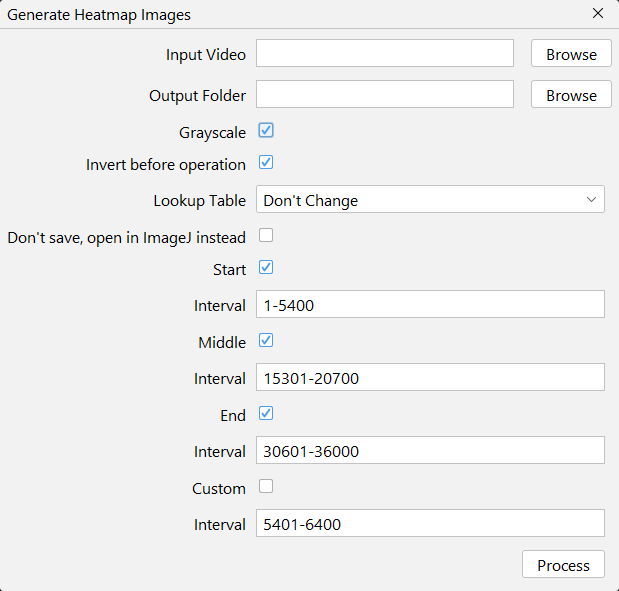
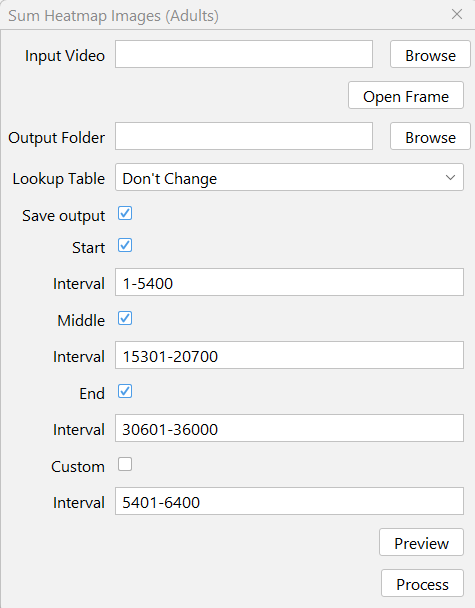
Plot spots fully documented

diff --git a/src/main/java/labmus/animove/ZFConfigs.java b/src/main/java/labmus/animove/ZFConfigs.java
@@ -39,7 +39,7 @@ public abstract class ZFConfigs {
     public static final String scoreSectorPath = analysisPath + "Calculate Score Sectors";
     public static final String analyzeFrequencyLarvaePath = analysisPath + "Extract Frequency Data";
     public static final String quantifyLarvaePath = analysisPath + "Quantify Binary Heatmap";
-    public static final String spotsPlotting = analysisPath + "Spots Plotting";
+    public static final String spotsPlotting = analysisPath + "Plot Spots";
     public static final String thigmotaxisPath = analysisPath + "Thigmotaxis";
 
 

diff --git a/docs/docs/analysis/spots-plotting.md b/docs/docs/analysis/spots-plotting.md
@@ -1,6 +1,6 @@
-# Spots Plotting
+# Plot Spots
 
-Plots each spot from a given Trackmate file to a scatter plot.
+Extract spots position data from a given Trackmate file. Outputs a scatter plot and a results table.
 
 [//]: # (TODO: finish this)
 {% include "excel-functions.md" %}
@@ -20,9 +20,9 @@ Two possible files can be used here:
 
 {% include "source-video-analysis.md" %}
 
-## Display Plots
+## Output
 * **Scatter Chart**: Simple chart to represent spot positions.
   ![Scatter Chart image](img/output-spots-plotting.png){ width="400em" }
 
 [//]: # (TODO: this)
-[How to reproduce this?](../guide/reproducibility.md#spots-plotting){ .md-button }
+[How to reproduce this?](../guide/reproducibility.md#plot-spots){ .md-button }

diff --git a/docs/docs/guide/reproducibility.md b/docs/docs/guide/reproducibility.md
@@ -83,6 +83,14 @@ Display Plots was left enabled.
 
 Generating the [plot shown](../analysis/frequency-data.md#display-plots).
 
+### Plot Spots
+
+`adults/tracking/full.xml` file was inputted into this analysis tool. 
+
+Both checkboxes for inverting axis were left unchecked.
+
+Generating the [plot shown](../analysis/spots-plotting.md#output).
+
 ### Quantify Binary Heatmap
 
 `larvae/larvae-long.mp4` file was inputted in the [Binary Heatmap Image](../processing/heatmap-binary.md) processing plugin.

diff --git a/docs/docs/processing/heatmap-images.md b/docs/docs/processing/heatmap-images.md
@@ -4,13 +4,13 @@ Generates an image using pixelwise addition of the selected frames. Processing s
 
 * **Background Reference Creation:** Performs an iteration over the frames to calculate the Average Z-projection of the raw footage.
 
-* **Background Subtraction:** Starts a second iteration over the frames. In this step, subtracts the generated average background from each frame.
+* **Background Subtraction:** Starts a second iteration over the frames. In this step, subtracts the generated average background from each frame. (This step is implemented by adding the inverted background reference to each frame)
 
-* **Brightness Adjust:** Increases the overall brightness.
+* **Brightness Adjustment:** Increases the overall brightness.
 
 * **Frame Sum:** Ending the second frame iteration, this operation sums all pixel values into a single 32-bit frame.
 
-* **Final Composition:** A simple B&C adjust is applied, stretching the histogram to its boundaries. After that, the selected Lookup table (LUT) is applied.
+* **Final Composition:** The sum is inverterd and a simple B&C adjust is applied, stretching the histogram to its boundaries. After that, the selected Lookup table (LUT) is applied.
 
 ## Interface
 ![Interface image](img/gui-heatmapImages.png){ width="400em" }
@@ -21,6 +21,8 @@ Generates an image using pixelwise addition of the selected frames. Processing s
 [How to reproduce this?](../guide/reproducibility.md#sum-heatmap-images){ .md-button }
 
 {% include "input-video.md" %}
+
+{% include "dark-subjects.md" %}
 
 ## Output Folder
 Where output images will be saved with `.tif` format.

diff --git a/docs/docs/processing/adults-tracking.md b/docs/docs/processing/adults-tracking.md
@@ -15,6 +15,8 @@ A TrackMate tutorial can be found [here](https://imagej.net/plugins/trackmate/tu
 
 {% include "input-video.md" %}
 
+{% include "dark-subjects.md" %}
+
 {% include "output-file.md" %}
 
 {% include "output-formats.md" %}

diff --git a/docs/docs/processing/heatmap-binary.md b/docs/docs/processing/heatmap-binary.md
@@ -21,6 +21,8 @@ Generates a binary heatmap image. Processing steps:
 
 {% include "input-video.md" %}
 
+{% include "dark-subjects.md" %}
+
 {% include "open-frame.md" %}
 
 {% include "output-image.md" %}

diff --git a/docs/docs/processing/heatmap-video.md b/docs/docs/processing/heatmap-video.md
@@ -15,6 +15,8 @@ Each frame is then concatenated into a single video.
 
 {% include "input-video.md" %}
 
+{% include "dark-subjects.md" %}
+
 {% include "output-file.md" %}
 
 ## Lookup Table

diff --git a/docs/docs/processing/larvae-tracking.md b/docs/docs/processing/larvae-tracking.md
@@ -15,6 +15,8 @@ A TrackMate tutorial can be found [here](https://imagej.net/plugins/trackmate/tu
 
 {% include "input-video.md" %}
 
+{% include "dark-subjects.md" %}
+
 {% include "output-file.md" %}
 
 {% include "output-formats.md" %}

diff --git a/docs/docs/snippets/dark-subjects.md b/docs/docs/snippets/dark-subjects.md
@@ -1,0 +1,2 @@
+This function expects a video with dark subjects over a bright background.
+If that does not correspond to your data, videos can be inverted using [FFmpeg's Invert Colors option](../tools/ffmpeg.md#invert-colors) or the [Invert Video](../tools/invert-video.md) tool.